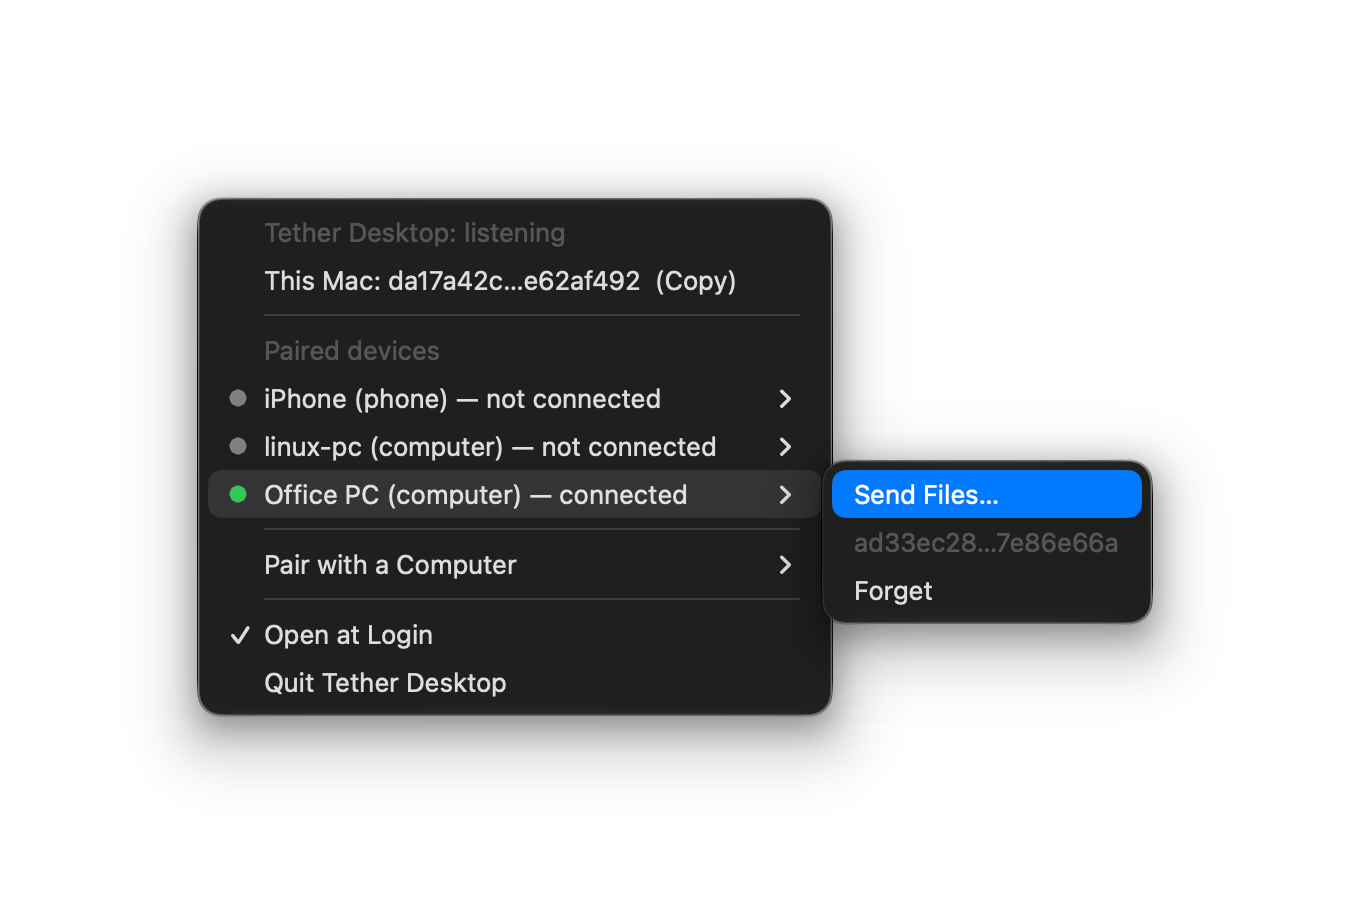
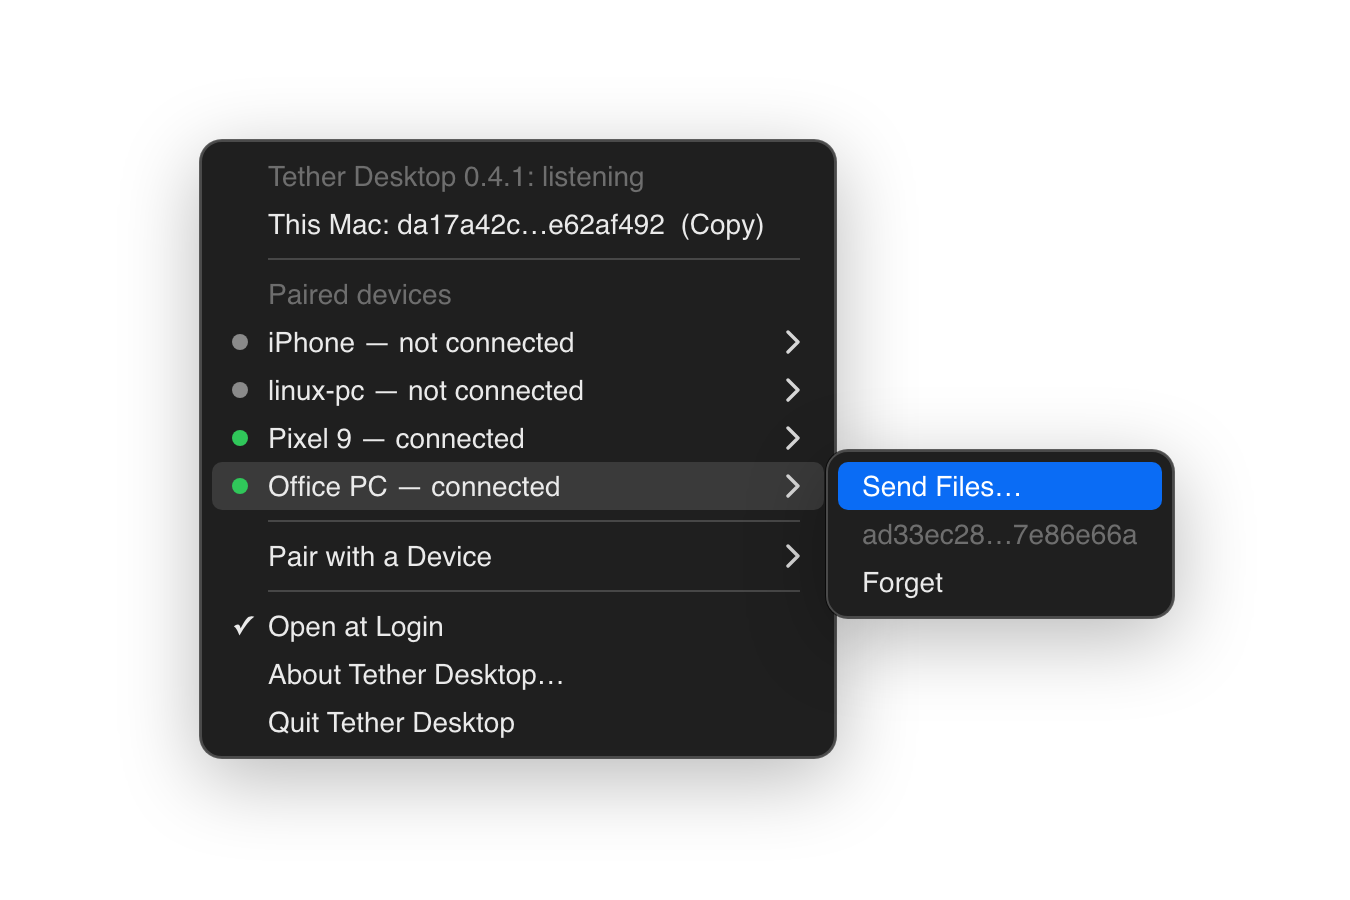
docs: update the menu screenshot
The menu now says Pair with a Device, shows no peer kind, and has About
Tether Desktop. The picture is drawn from the menu's layout, not taken
from the screen.

diff --git a/README.md b/README.md
@@ -19,7 +19,7 @@ Tether Desktop is not an official app of Tether, and the authors of Tether do no
 - Shows the notifications of an Android phone with Tether for Android, on macOS.
 - Tells you when a new version is out.
 
-<img src="assets/menu-macos.png" width="675" alt="The menu on macOS: three paired devices, and the submenu of the connected one, with Send Files.">
+<img src="assets/menu-macos.png" width="675" alt="The menu on macOS: four paired devices, among them an Android phone, and the submenu of a connected one, with Send Files.">
 
 ## Install
 
